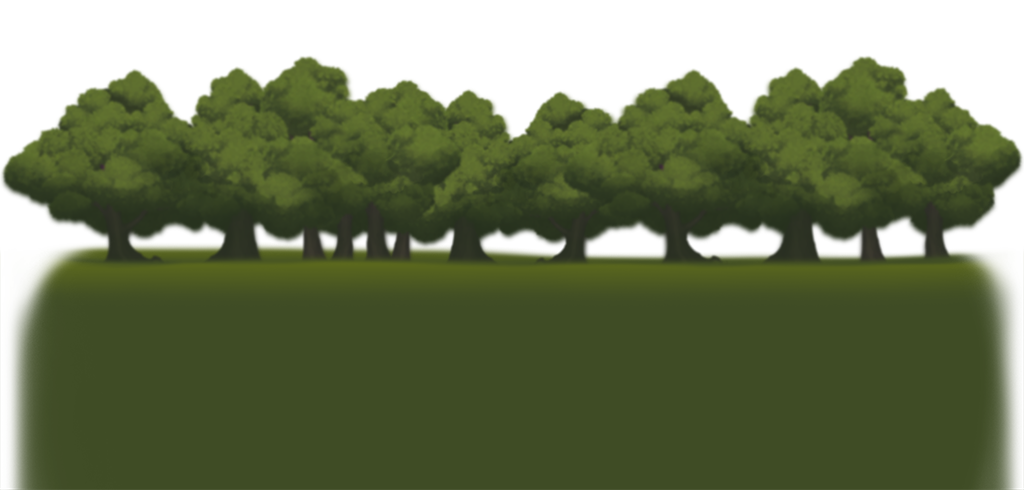
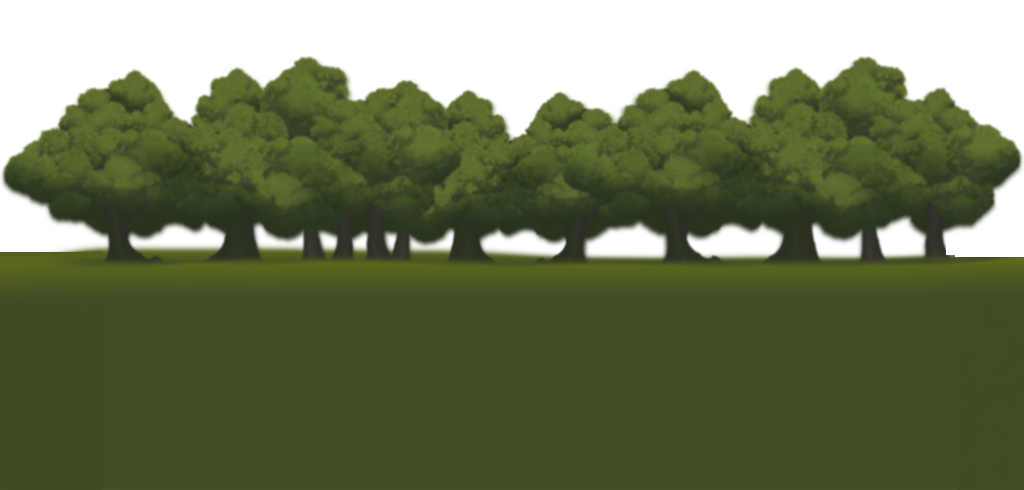
replacing sprites to match legacy game

Changed region(s): [[0.0, 0.4898, 0.0938, 1.0], [0.9062, 0.4898, 1.0, 1.0]]

diff --git a/doge_arcade/views/game_view.py b/doge_arcade/views/game_view.py
@@ -7,6 +7,7 @@ from UI.status_bar import StatusBar
 from entities.player_character import PlayerCharacter
 from views.confirm_exit_view import ConfirmExitView
 
+
 class GameView(arcade.View):
     def __init__(self):
         super().__init__()
@@ -23,8 +24,6 @@ class GameView(arcade.View):
         self.sky_color = arcade.color.SKY_BLUE
         self.hill_colors = [arcade.color.GREEN_YELLOW, arcade.color.FOREST_GREEN, arcade.color.DARK_OLIVE_GREEN]
         self.clouds = self.create_clouds(10)
-
-        
         
         self.doge_price = "Loading..."
         
@@ -68,24 +67,24 @@ class GameView(arcade.View):
         arcade.draw_lrtb_rectangle_filled(0, self.display_width, self.display_height, self.display_height / 2, self.sky_color)
     
     def draw_hills(self):
-        # Draw the hills
+        # The bottom of the hill image
         hill_bottom = 0
-        hill_top = self.display_height / 3
-        for color in self.hill_colors:
-            # Points for the hill polygons
-            hill_points = [
-                (0, hill_bottom),
-                (self.display_width / 4, hill_top),
-                (self.display_width / 2, hill_bottom),
-                (3 * self.display_width / 4, hill_top),
-                (self.display_width, hill_bottom),
-                (self.display_width, 0),
-                (0, 0)
-            ]
-            arcade.draw_polygon_filled(hill_points, color)
-            # Move the hill range up for the next hill
-            hill_bottom += self.display_height / 12
-            hill_top += self.display_height / 12
+        # The height of the hill image is a third of the display height, as per your original code
+        hill_height = self.display_height /1.5
+
+        # Load the texture for the group of trees
+        trees_texture = arcade.load_texture(str(ASSETS_PATH / "environment" / "group_of_trees.png"))
+
+        # Calculate the center_y position to place the image. This will be the bottom plus half the hill height
+        center_y = hill_bottom + hill_height / 2
+
+        # Draw the texture rectangle with the full width of the display and the calculated height
+        arcade.draw_texture_rectangle(center_x=self.display_width / 2, 
+                                    center_y=center_y, 
+                                    width=self.display_width, 
+                                    height=hill_height, 
+                                    texture=trees_texture)
+
 
     def draw_clouds(self):
         cloud_color = arcade.color.LIGHT_GRAY
@@ -137,11 +136,10 @@ class GameView(arcade.View):
         self.player_sprite.update_animation(delta_time)  
         
     def restart_game(self):
+        from .landing_view import LandingView
         self.window.show_view(LandingView())
     
     def setup(self):
-
-
         self.player_list = arcade.SpriteList()
         self.wall_list = arcade.SpriteList(use_spatial_hash=True)
 
@@ -150,25 +148,26 @@ class GameView(arcade.View):
         self.player_sprite.center_y = 126
         self.player_list.append(self.player_sprite)
         
-        for x in range(0, 800, 128):
-            wall = arcade.Sprite(":resources:images/tiles/grassMid.png", SPRITE_SCALING_BOX)
+        for x in range(0, self.display_width, 128):
+            wall = arcade.Sprite(str(ASSETS_PATH / "environment" / "grass_3.png"), .2)
             wall.center_x = x
-            wall.center_y = 90
+            wall.center_y = 0
             self.wall_list.append(wall)
 
-        coordinate_list = [[200, 300], [300, 300], [400, 400], [500, 400], [600, 400]]
+        coordinate_list = [[300, 70], [380, 70], [460, 70], [540, 70]]
 
         for coordinate in coordinate_list:
-            wall = arcade.Sprite(":resources:images/tiles/boxCrate_double.png", TILE_SCALING)
+            wall = arcade.Sprite(str(ASSETS_PATH / "environment" / "bushes_0.png"), .1)
             wall.position = coordinate
+            
             self.wall_list.append(wall)
         
         self.physics_engine = arcade.PhysicsEnginePlatformer(self.player_sprite, self.wall_list, gravity_constant=GRAVITY)
 
     def on_draw(self):
         arcade.start_render()
-        self.draw_sky()
-        # self.draw_hills()
+        #self.draw_sky()
+        self.draw_hills()
         # self.draw_clouds()
         # self.update_clouds(1/60)
         #arcade.draw_texture_rectangle(center_x=self.display_width / 2, center_y=self.display_height / 2, width=self.display_width, height=self.display_height, texture=self.background)

diff --git a/doge_arcade/views/landing_view.py b/doge_arcade/views/landing_view.py
@@ -4,9 +4,6 @@ import random
 import arcade
 from arcade import View, color, key
 from settings.constants import ASSETS_PATH 
-
-# If GameView and ConfirmExitView are in the same directory
-from views.game_view import GameView
 from views.confirm_exit_view import ConfirmExitView
  
               
@@ -140,6 +137,7 @@ class LandingView(arcade.View):
             modal_view = ConfirmExitView(self)  
             self.window.show_view(modal_view)
         elif self.loading_complete:
+            from .game_view import GameView
             game = GameView()
             game.setup()
             self.window.show_view(game)
